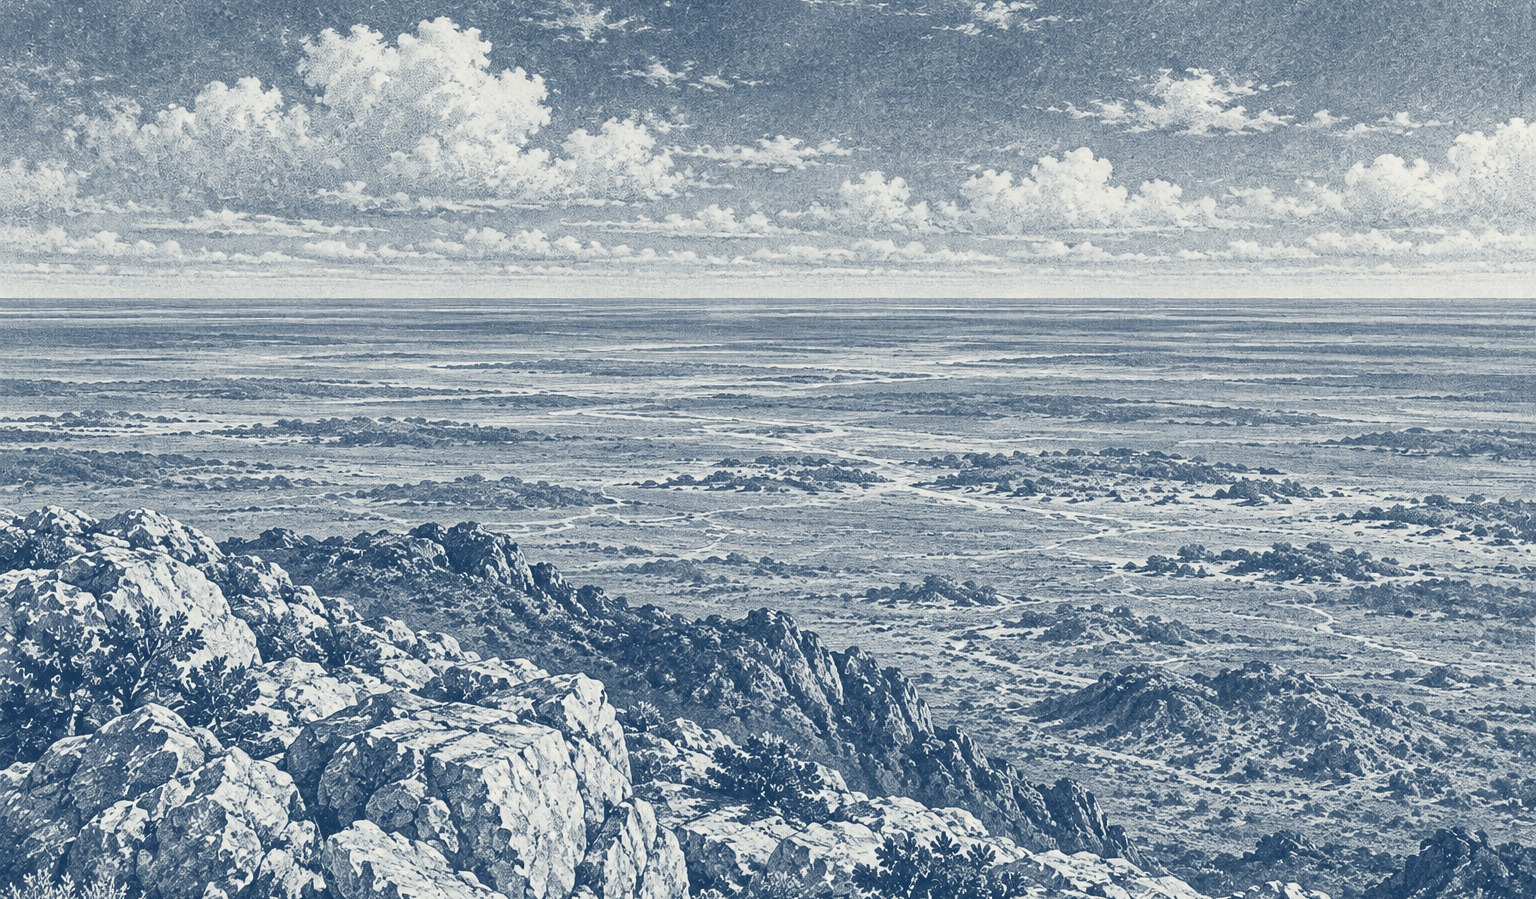
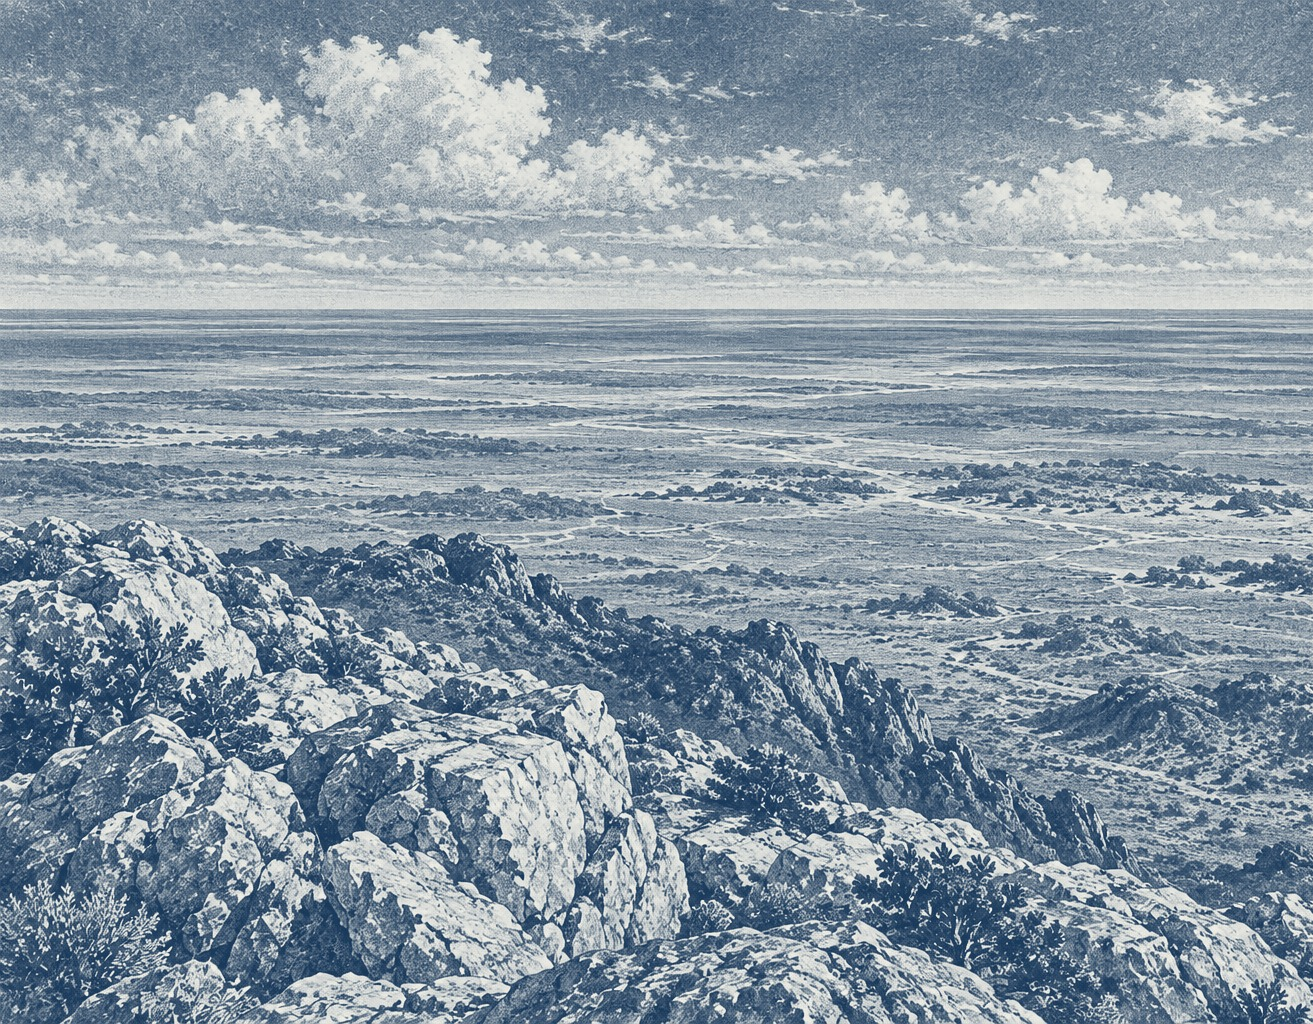
048-051: dobles recompuestas y alineadas

diff --git a/index.html b/index.html
@@ -5,23 +5,23 @@
 <meta charset="utf-8">
 <meta name="viewport" content="width=1280">
 <title>Darwin en la Argentina — libro</title>
-<link rel="stylesheet" href="styles/tokens.css?v=8ee5f204">
-<link rel="stylesheet" href="styles/typography.css?v=8ee5f204">
-<link rel="stylesheet" href="styles/grid.css?v=8ee5f204">
-<link rel="stylesheet" href="styles/components.css?v=8ee5f204">
-<link rel="stylesheet" href="styles/pages.css?v=8ee5f204">
-<link rel="stylesheet" href="styles/maps.css?v=8ee5f204">
-<link rel="stylesheet" href="styles/paradas.css?v=8ee5f204">
-<link rel="stylesheet" href="styles/registros.css?v=8ee5f204">
-<link rel="stylesheet" href="styles/tramo-03.css?v=8ee5f204">
-<link rel="stylesheet" href="styles/tramo-04-05.css?v=8ee5f204">
-<link rel="stylesheet" href="styles/tramo-05-07.css?v=8ee5f204">
-<link rel="stylesheet" href="styles/tramo-07-10.css?v=8ee5f204">
-<link rel="stylesheet" href="styles/tramo-10-15.css?v=8ee5f204">
-<link rel="stylesheet" href="styles/fotos.css?v=8ee5f204">
-<link rel="stylesheet" href="tapa/tapa.css?v=8ee5f204">
-<link rel="stylesheet" href="styles/medida.css?v=8ee5f204">
-<link rel="stylesheet" href="styles/print.css?v=8ee5f204">
+<link rel="stylesheet" href="styles/tokens.css?v=c4104a54">
+<link rel="stylesheet" href="styles/typography.css?v=c4104a54">
+<link rel="stylesheet" href="styles/grid.css?v=c4104a54">
+<link rel="stylesheet" href="styles/components.css?v=c4104a54">
+<link rel="stylesheet" href="styles/pages.css?v=c4104a54">
+<link rel="stylesheet" href="styles/maps.css?v=c4104a54">
+<link rel="stylesheet" href="styles/paradas.css?v=c4104a54">
+<link rel="stylesheet" href="styles/registros.css?v=c4104a54">
+<link rel="stylesheet" href="styles/tramo-03.css?v=c4104a54">
+<link rel="stylesheet" href="styles/tramo-04-05.css?v=c4104a54">
+<link rel="stylesheet" href="styles/tramo-05-07.css?v=c4104a54">
+<link rel="stylesheet" href="styles/tramo-07-10.css?v=c4104a54">
+<link rel="stylesheet" href="styles/tramo-10-15.css?v=c4104a54">
+<link rel="stylesheet" href="styles/fotos.css?v=c4104a54">
+<link rel="stylesheet" href="tapa/tapa.css?v=c4104a54">
+<link rel="stylesheet" href="styles/medida.css?v=c4104a54">
+<link rel="stylesheet" href="styles/print.css?v=c4104a54">
 </head>
 <body>
 <div class="spread"><div class="slot--empty"></div><section class="page page--cover page--right front" id="ptapa">
@@ -1388,7 +1388,8 @@
 <div class="spread"><!-- 050 · Hasta donde pudo llegar — fuente: Darwin_textos_para_maquetar_v2.pdf, entrada 049.
      Cotejo con la capa de texto del escaneo (pág. 155 del libro): coincide. Punto y aparte en «Ya he dicho», como en la fuente.
      «mas que» sin tilde: se deja como en la fuente.
-     Esquema: Darwin NO alcanza los dos picos más altos; el orden de los picos es supuesto. -->
+     Esquema: Darwin NO alcanza los dos picos más altos; el orden de los picos es supuesto.
+     12 oct. 2026: el esquema crece (líneas 7–21) y su nota termina con el texto (24); las rocas pasan a una banda al pie, en fila. -->
 <section class="page page--left" id="p050" data-page="050" data-section="06 Sierra de la Ventana" lang="es">
   <div class="page__box">
     <h1 class="p050__title t-pagetitle">Hasta donde pudo llegar</h1>
@@ -1397,15 +1398,15 @@
       <p>Ya he dicho que la montaña se compone de una roca de cuarzo blanco en asociaciones de pequeñas pizarras lustrosas. A la altura de algunos centenares de pies sobre la llanura se veían vetas de conglomerado adheridas en varios sitios a la roca sólida.</p>
     </div>
 
-    <svg class="p050__peaks diagram" viewBox="0 0 92.34 49.5" aria-hidden="true">
-      <path class="diagram__fill" d="M2 42L10 28L14 20L20 28L26 31L31 22L36 16L41 23L47 27L53 16L60 10L66 18L71 20L76 14L80 11L85 22L90 42Z"/>
-      <path class="diagram__line" d="M0 42H2L10 28L14 20L20 28L26 31L31 22L36 16L41 23L47 27L53 16L60 10L66 18L71 20L76 14L80 11L85 22L90 42H92.34"/>
-      <path class="diagram__vein" d="M84.6 27.5L85.8 31.5M86 33.5L87.1 37.5"/>
-      <circle class="route__dot" cx="36" cy="16" r="1.2"/>
-      <circle class="diagram__ring2" cx="60" cy="10" r="1"/><circle class="diagram__ring2" cx="80" cy="11" r="1"/>
-      <path class="diagram__tick" d="M36 14.2V7.2"/>
+    <svg class="p050__peaks diagram" viewBox="0 0 92.34 67.5" aria-hidden="true">
+      <path class="diagram__fill" d="M2 58L10 37L14 25L20 37L26 41.5L31 28L36 19L41 29.5L47 35.5L53 19L60 10L66 22L71 25L76 16L80 11.5L85 28L90 58Z"/>
+      <path class="diagram__line" d="M0 58H2L10 37L14 25L20 37L26 41.5L31 28L36 19L41 29.5L47 35.5L53 19L60 10L66 22L71 25L76 16L80 11.5L85 28L90 58H92.34"/>
+      <path class="diagram__vein" d="M84.6 36.3L85.6 42.3M86.1 45.3L87.1 51.3"/>
+      <circle class="route__dot" cx="36" cy="19" r="1.2"/>
+      <circle class="diagram__ring2" cx="60" cy="10" r="1"/><circle class="diagram__ring2" cx="80" cy="11.5" r="1"/>
+      <path class="diagram__tick" d="M36 17.2V7.2"/>
       <g class="diagram__label diagram__label--strong"><text x="2" y="2.6">Hasta aquí llegó</text><text x="52" y="2.6">Los dos picos más altos</text></g>
-      <g class="diagram__label"><text x="2" y="5.8">segundo pico, «a eso de las dos»</text><text x="52" y="5.8">no los alcanzó</text><text x="0" y="46">Llanura</text><text x="92.34" y="46" text-anchor="end">Vetas de conglomerado</text></g>
+      <g class="diagram__label"><text x="2" y="5.8">segundo pico, «a eso de las dos»</text><text x="52" y="5.8">no los alcanzó</text><text x="0" y="62">Llanura</text><text x="92.34" y="62" text-anchor="end">Vetas de conglomerado</text></g>
     </svg>
     <p class="p050__caption t-data"><span class="notetag notetag--ed">ED</span>El punto alcanzado, por debajo de las cumbres mayores. Esquema sin escala; el orden de los picos es supuesto.</p>
     <p class="p050__label t-meta"><span class="notetag notetag--ed">ED</span>Las rocas que nombra el fragmento</p>
@@ -1420,7 +1421,8 @@
 <!-- 051 · Mirar y regresar — fuente: Darwin_textos_para_maquetar_v2.pdf, entrada 050.
      Cotejo con la capa de texto del escaneo (pág. 156 del libro). El v2 pone […] entre «más a gusto.» y «10 de septiembre»,
      pero en la fuente el texto es corrido (solo hay punto y aparte): no se marca corte. «En el camino.vi» → «En el camino vi».
-     Nota (1) de la edición española. «para mi» sin tilde: se deja como en la fuente. -->
+     Nota (1) de la edición española. «para mi» sin tilde: se deja como en la fuente.
+     12 oct. 2026: la imagen termina con el texto (línea 22); el esquema del regreso pasa a franja a todo el ancho (24–27) y las notas a la línea 28. -->
 <section class="page page--right" id="p051" data-page="051" data-section="06 Sierra de la Ventana" lang="es">
   <div class="page__box">
     <h1 class="p051__title t-pagetitle">Mirar y regresar</h1>
@@ -1429,14 +1431,14 @@
       <p>10 de septiembre.—Por la mañana, tras una buena corrida viento en popa, llegamos al mediodía a la posta del Sauce. En el camino vi gran número de ciervos, y cerca de la montaña un guanaco.</p>
     </div>
     <p class="p051__note-e t-data"><span class="notetag">E</span>(1) <i>Cigaritos</i> en el original.</p>
-    <div class="p051__image foto" style="background-image:url(assets/images/051-horizonte-sierra.jpg?v=f2422afb)" role="img" aria-label="la llanura vista desde lo alto de la sierra: horizonte recto «como el mar», sin relieve ni color"></div>
+    <div class="p051__image foto" style="background-image:url(assets/images/051-horizonte-sierra.jpg?v=91260e2e)" role="img" aria-label="la llanura vista desde lo alto de la sierra: horizonte recto «como el mar», sin relieve ni color"></div>
 
-    <svg class="p051__route diagram" viewBox="0 0 92.34 22.5" aria-hidden="true">
-      <path class="route--land" d="M3 9H89"/>
-      <g class="route__dot"><circle cx="3" cy="9" r="1.1"/><circle cx="89" cy="9" r="1.1"/></g>
-      <text class="diagram__label" x="46" y="5.5" text-anchor="middle">en el camino: ciervos y, cerca de la montaña, un guanaco</text>
-      <g class="diagram__label diagram__label--strong"><text x="0" y="14.6">Vivac al pie de la sierra</text><text x="92.34" y="14.6" text-anchor="end">Posta del Sauce</text></g>
-      <g class="diagram__label"><text x="0" y="17.8">9 sep., al ponerse el Sol</text><text x="92.34" y="17.8" text-anchor="end">10 sep., al mediodía</text></g>
+    <svg class="p051__route diagram" viewBox="0 0 188 18" aria-hidden="true">
+      <path class="route--land" d="M3 7H185"/>
+      <g class="route__dot"><circle cx="3" cy="7" r="1.1"/><circle cx="185" cy="7" r="1.1"/></g>
+      <text class="diagram__label" x="94" y="3.5" text-anchor="middle">en el camino: ciervos y, cerca de la montaña, un guanaco</text>
+      <g class="diagram__label diagram__label--strong"><text x="0" y="12.6">Vivac al pie de la sierra</text><text x="188" y="12.6" text-anchor="end">Posta del Sauce</text></g>
+      <g class="diagram__label"><text x="0" y="15.8">9 sep., al ponerse el Sol</text><text x="188" y="15.8" text-anchor="end">10 sep., al mediodía</text></g>
     </svg>
     <p class="p051__caption t-data"><span class="notetag notetag--ed">ED</span>El regreso, con los datos del fragmento. Esquema sin escala.</p>
   </div>

diff --git a/pages/050.html b/pages/050.html
@@ -1,7 +1,8 @@
 <!-- 050 · Hasta donde pudo llegar — fuente: Darwin_textos_para_maquetar_v2.pdf, entrada 049.
      Cotejo con la capa de texto del escaneo (pág. 155 del libro): coincide. Punto y aparte en «Ya he dicho», como en la fuente.
      «mas que» sin tilde: se deja como en la fuente.
-     Esquema: Darwin NO alcanza los dos picos más altos; el orden de los picos es supuesto. -->
+     Esquema: Darwin NO alcanza los dos picos más altos; el orden de los picos es supuesto.
+     12 oct. 2026: el esquema crece (líneas 7–21) y su nota termina con el texto (24); las rocas pasan a una banda al pie, en fila. -->
 <section class="page" data-page="050" data-section="06 Sierra de la Ventana" lang="es">
   <div class="page__box">
     <h1 class="p050__title t-pagetitle">Hasta donde pudo llegar</h1>
@@ -10,15 +11,15 @@
       <p>Ya he dicho que la montaña se compone de una roca de cuarzo blanco en asociaciones de pequeñas pizarras lustrosas. A la altura de algunos centenares de pies sobre la llanura se veían vetas de conglomerado adheridas en varios sitios a la roca sólida.</p>
     </div>
 
-    <svg class="p050__peaks diagram" viewBox="0 0 92.34 49.5" aria-hidden="true">
-      <path class="diagram__fill" d="M2 42L10 28L14 20L20 28L26 31L31 22L36 16L41 23L47 27L53 16L60 10L66 18L71 20L76 14L80 11L85 22L90 42Z"/>
-      <path class="diagram__line" d="M0 42H2L10 28L14 20L20 28L26 31L31 22L36 16L41 23L47 27L53 16L60 10L66 18L71 20L76 14L80 11L85 22L90 42H92.34"/>
-      <path class="diagram__vein" d="M84.6 27.5L85.8 31.5M86 33.5L87.1 37.5"/>
-      <circle class="route__dot" cx="36" cy="16" r="1.2"/>
-      <circle class="diagram__ring2" cx="60" cy="10" r="1"/><circle class="diagram__ring2" cx="80" cy="11" r="1"/>
-      <path class="diagram__tick" d="M36 14.2V7.2"/>
+    <svg class="p050__peaks diagram" viewBox="0 0 92.34 67.5" aria-hidden="true">
+      <path class="diagram__fill" d="M2 58L10 37L14 25L20 37L26 41.5L31 28L36 19L41 29.5L47 35.5L53 19L60 10L66 22L71 25L76 16L80 11.5L85 28L90 58Z"/>
+      <path class="diagram__line" d="M0 58H2L10 37L14 25L20 37L26 41.5L31 28L36 19L41 29.5L47 35.5L53 19L60 10L66 22L71 25L76 16L80 11.5L85 28L90 58H92.34"/>
+      <path class="diagram__vein" d="M84.6 36.3L85.6 42.3M86.1 45.3L87.1 51.3"/>
+      <circle class="route__dot" cx="36" cy="19" r="1.2"/>
+      <circle class="diagram__ring2" cx="60" cy="10" r="1"/><circle class="diagram__ring2" cx="80" cy="11.5" r="1"/>
+      <path class="diagram__tick" d="M36 17.2V7.2"/>
       <g class="diagram__label diagram__label--strong"><text x="2" y="2.6">Hasta aquí llegó</text><text x="52" y="2.6">Los dos picos más altos</text></g>
-      <g class="diagram__label"><text x="2" y="5.8">segundo pico, «a eso de las dos»</text><text x="52" y="5.8">no los alcanzó</text><text x="0" y="46">Llanura</text><text x="92.34" y="46" text-anchor="end">Vetas de conglomerado</text></g>
+      <g class="diagram__label"><text x="2" y="5.8">segundo pico, «a eso de las dos»</text><text x="52" y="5.8">no los alcanzó</text><text x="0" y="62">Llanura</text><text x="92.34" y="62" text-anchor="end">Vetas de conglomerado</text></g>
     </svg>
     <p class="p050__caption t-data"><span class="notetag notetag--ed">ED</span>El punto alcanzado, por debajo de las cumbres mayores. Esquema sin escala; el orden de los picos es supuesto.</p>
     <p class="p050__label t-meta"><span class="notetag notetag--ed">ED</span>Las rocas que nombra el fragmento</p>

diff --git a/pages/051.html b/pages/051.html
@@ -1,7 +1,8 @@
 <!-- 051 · Mirar y regresar — fuente: Darwin_textos_para_maquetar_v2.pdf, entrada 050.
      Cotejo con la capa de texto del escaneo (pág. 156 del libro). El v2 pone […] entre «más a gusto.» y «10 de septiembre»,
      pero en la fuente el texto es corrido (solo hay punto y aparte): no se marca corte. «En el camino.vi» → «En el camino vi».
-     Nota (1) de la edición española. «para mi» sin tilde: se deja como en la fuente. -->
+     Nota (1) de la edición española. «para mi» sin tilde: se deja como en la fuente.
+     12 oct. 2026: la imagen termina con el texto (línea 22); el esquema del regreso pasa a franja a todo el ancho (24–27) y las notas a la línea 28. -->
 <section class="page" data-page="051" data-section="06 Sierra de la Ventana" lang="es">
   <div class="page__box">
     <h1 class="p051__title t-pagetitle">Mirar y regresar</h1>
@@ -12,12 +13,12 @@
     <p class="p051__note-e t-data"><span class="notetag">E</span>(1) <i>Cigaritos</i> en el original.</p>
     <div class="p051__image foto" style="background-image:url(assets/images/051-horizonte-sierra.jpg)" role="img" aria-label="la llanura vista desde lo alto de la sierra: horizonte recto «como el mar», sin relieve ni color"></div>
 
-    <svg class="p051__route diagram" viewBox="0 0 92.34 22.5" aria-hidden="true">
-      <path class="route--land" d="M3 9H89"/>
-      <g class="route__dot"><circle cx="3" cy="9" r="1.1"/><circle cx="89" cy="9" r="1.1"/></g>
-      <text class="diagram__label" x="46" y="5.5" text-anchor="middle">en el camino: ciervos y, cerca de la montaña, un guanaco</text>
-      <g class="diagram__label diagram__label--strong"><text x="0" y="14.6">Vivac al pie de la sierra</text><text x="92.34" y="14.6" text-anchor="end">Posta del Sauce</text></g>
-      <g class="diagram__label"><text x="0" y="17.8">9 sep., al ponerse el Sol</text><text x="92.34" y="17.8" text-anchor="end">10 sep., al mediodía</text></g>
+    <svg class="p051__route diagram" viewBox="0 0 188 18" aria-hidden="true">
+      <path class="route--land" d="M3 7H185"/>
+      <g class="route__dot"><circle cx="3" cy="7" r="1.1"/><circle cx="185" cy="7" r="1.1"/></g>
+      <text class="diagram__label" x="94" y="3.5" text-anchor="middle">en el camino: ciervos y, cerca de la montaña, un guanaco</text>
+      <g class="diagram__label diagram__label--strong"><text x="0" y="12.6">Vivac al pie de la sierra</text><text x="188" y="12.6" text-anchor="end">Posta del Sauce</text></g>
+      <g class="diagram__label"><text x="0" y="15.8">9 sep., al ponerse el Sol</text><text x="188" y="15.8" text-anchor="end">10 sep., al mediodía</text></g>
     </svg>
     <p class="p051__caption t-data"><span class="notetag notetag--ed">ED</span>El regreso, con los datos del fragmento. Esquema sin escala.</p>
   </div>

diff --git a/styles/medida.css b/styles/medida.css
@@ -130,3 +130,23 @@
 .p047__notes { grid-row: 24 / 29; align-self: end; }
 .p047__datalabel { grid-row: 24; }
 .p047__data { grid-row: 25 / 29; }
+
+/* ── 048–051 ── recomposición del 12 oct. 2026 (misma información) */
+/* 048–049: bajo la imagen, las dos páginas cierran en la línea 25. 048: texto (20–25) y nota ED (24–25) terminan juntos.
+   049: el corte sube (16–23) y su nota ED queda en la 25 */
+.p048__text { grid-row: 20 / 26; }
+.p048__caption { grid-row: 24 / 26; align-self: end; }
+.p049__cut { grid-row: 16 / 24; }
+.p049__caption { grid-row: 25; }
+/* 050: el esquema crece y su nota ED termina con el texto (línea 25); las tres rocas van en fila en una banda al pie
+   (rótulo en la 27, lista en la 28, de una línea de alto) */
+.p050__peaks { grid-row: 7 / 22; }
+.p050__caption { grid-row: 24 / 26; align-self: end; }
+.p050__label { grid-column: 1 / 7; grid-row: 27; }
+.p050__list { grid-column: 1 / 7; grid-row: 28; display: grid; grid-template-columns: repeat(3, 1fr); column-gap: var(--column-gap); }
+.p050__list li { height: var(--baseline); padding-top: 0.5mm; }
+/* 051: la imagen empieza y termina con el texto (7–22); el regreso va en franja a todo el ancho y las notas al pie */
+.p051__image { grid-row: 7 / 23; }
+.p051__route { grid-column: 1 / 7; grid-row: 24 / 28; }
+.p051__note-e { grid-row: 28; }
+.p051__caption { grid-row: 28; }

diff --git a/tools/fotos.py b/tools/fotos.py
@@ -32,7 +32,7 @@ FOTOS = [
     ('044', 'megatherium', 92.3, 67.5, 'l', .5, .5, 0),
     ('045', 'llanos', 92.3, 49.5, 'c', .5, .5, .35),
     ('048', 'vivac', 210, 64, 'c', .5, .56, 0),
-    ('051', 'horizonte-sierra', 92.3, 54, 'c', .5, .45, 0),
+    ('051', 'horizonte-sierra', 92.3, 72, 'c', .4, .45, 0),
     ('052', 'llanura-rebano', 92.3, 40.5, 'c', .5, .50, 0),
     ('053', 'fogon', 210, 59.5, 'c', .5, .50, 0),
     ('055', 'hogueras', 188, 36, 'c', .5, .52, 0),

diff --git a/tools/fragmentos.py b/tools/fragmentos.py
@@ -14,7 +14,7 @@ FRAGMENTOS = [
     ('ave', '081-picotijera.jpg', 1250, 200, 640, False),
     ('planta', '016a-fagus-betuloides.jpg', 100, 200, 900, False),
     ('rio', '105-santa-cruz.jpg', 500, 173, 754, False),
-    ('montana', '051-horizonte-sierra.jpg', 0, 189, 560, False),
+    ('montana', '051-horizonte-sierra.jpg', 0, 200, 560, False),
     ('mapa', '../../salida/008.png', 1600, 850, 600, False),
 ]
 for name, src, x, y, w, raw in FRAGMENTOS:

diff --git a/BOOK_PROGRESS.md b/BOOK_PROGRESS.md
@@ -507,3 +507,4 @@ Se reemplazaron los 39 recuadros de imagen pendiente por ilustraciones generadas
 - 2026-10-12 · 037 (ajuste pedido por Patricio): el texto baja a las líneas 14–28 y termina en la misma línea que el texto de 036; empieza a la altura del primer rótulo del esquema de visitas y termina con el último renglón de la nota ED. Para que entre la columna de esquemas, el corte del terreno se achata (viewBox 92,34 × 36; mismos rótulos). Cambió el HTML de 037 (SVG): re-aprobada.
 - 2026-10-12 · 042–043 recompuestas a la par (trabajo autónomo, misma información). 042: la lámina del Scelidotherium sube a la derecha del texto (columnas 4–6, líneas 7–13: empieza y termina con el texto); el esquema de la grava se redibuja apaisado en franja a todo el ancho (líneas 19–26, viewBox 188 × 36, mismos elementos y rótulos), igual que la franja del tiempo de 043; nota ED al pie (27–28) como la de 043. 043: la nota D baja a la última línea del texto (15). Cambió el HTML de 042 (SVG): re-aprobada; 043 solo CSS.
 - 2026-10-12 · 044–047 revisadas y recompuestas (trabajo autónomo, misma información; solo CSS e imagen, las cuatro siguen bloqueadas). 044: Megatherium más grande (ancho completo de las columnas 1–3, líneas 9–22) y notas al pie de la columna: D en 24–26, ED en la 28, donde termina el texto. 045: la pregunta baja a las líneas 8–11 y el texto a 15–28 para terminar como el de 044; la imagen empieza con el texto (15–25, recorte 92,3 × 49,5 mm) y la nota ED termina con él (27–28). 046: sin cambios. 047: el texto baja una línea (8–21) y termina como el de 046; notas y medidas pasan a la banda 24–28, la misma de la franja y la nota ED de 046.
+- 2026-10-12 · 048–051 revisadas y recompuestas (trabajo autónomo, misma información). 048: texto en 20–25 y nota ED en 24–25, terminan juntos. 049: el corte sube a 16–23 y su nota ED a la 25, a la par del cierre de 048. 050: el esquema de los picos crece (viewBox 92,34 × 67,5; líneas 7–21) y su nota ED termina con el texto (25); las tres rocas pasan a una banda al pie, en fila (rótulo 27, lista 28). 051: la imagen empieza y termina con el texto (7–22; recorte 92,3 × 72 mm, foco a la izquierda, 361 ppp); el esquema del regreso pasa a franja a todo el ancho (24–27, viewBox 188 × 18) y las notas E y ED a la línea 28. tools/fragmentos.py: coordenadas del fragmento «montaña» de 005 adaptadas al nuevo recorte (no se regeneró 005). Cambió el HTML de 050 y 051 (SVG): re-aprobadas; 048 y 049 solo CSS.
